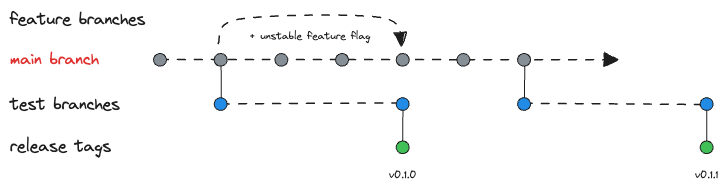
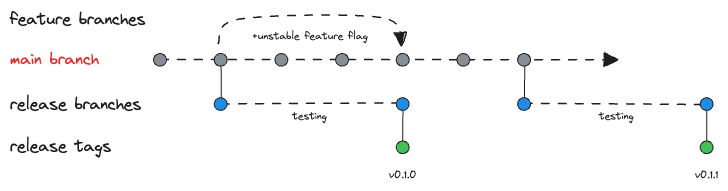
document release process

diff --git a/docs/src/release.md b/docs/src/release.md
@@ -2,15 +2,39 @@
 
 ## Overview
 
-Test
+Overall, the Vercre's release process favours bringing new features to market frequently, while minimizing the risk of releasing a broken version. It draws heavily on the Rust release process, which is well-documented and understood.
 
 ![Release Process](images/release.png)
 
+## Core tenets
 
+The release process starts as soon as change is identified. That is, the decision to release is not a separate step at the end of development, but rather a natural consequence of bringing a change to market. 
 
-## Preparing to release
+**TLDR**:
 
-Use [cargo-release](https://github.com/crate-ci/cargo-release) to release a new version of each crate.
+* `main` is the source of truth. 
+* Development is undertaken on `feature` branches and is considered complete when requirements have been met and CI checks pass. 
+* Completed features are merged back into `main`, gated behind a "feature flag".
+* A short-lived `release` branch is created for testing and release preparation with changes merged back into `main`.
+* Once ready, a release is tagged, published, and the branch deleted.
+
+### `main` branch
+
+The `main` branch is the source of truth. It should always be in a releasable state, and is the basis for all development. While new development is undertaken on `feature` branches, changes should be merged as soon as practicable, protected behind a temporary feature flag for the change.
+
+### Feature branches
+
+Development is undertaken on `feature` branches. Branches should be as short-lived as possible, and are deleted once the change is merged back into `main`.
+
+If possible, larger changes should be broken down into smaller, more manageable changes, and developed on separate branches.
+
+### Publishing a release
+
+The publishing process is initiated by creating a new, short-lived, `release` branch from `main`. More comprehensive integration testing is undertaken on this branch, with any changes merged back into `main`.
+
+Once the release is ready, the code is tagged, published, and the branch deleted.
+
+## Process
 
 ### Changelog
 
@@ -25,7 +49,7 @@ Set the release level using one of `release`, `major`, `minor`, `patch`, `alpha`
 For example, to release a minor version:
 
 ```sh
-cargo-release minor
+cargo make release minor
 ```
 
 ### Publish
@@ -33,7 +57,7 @@ cargo-release minor
 Release to crates.io:
 
 ```sh
-cargo-release minor --execute
+cargo make publish minor
 ```
 
 ### [TO REVIEW] Github Release
